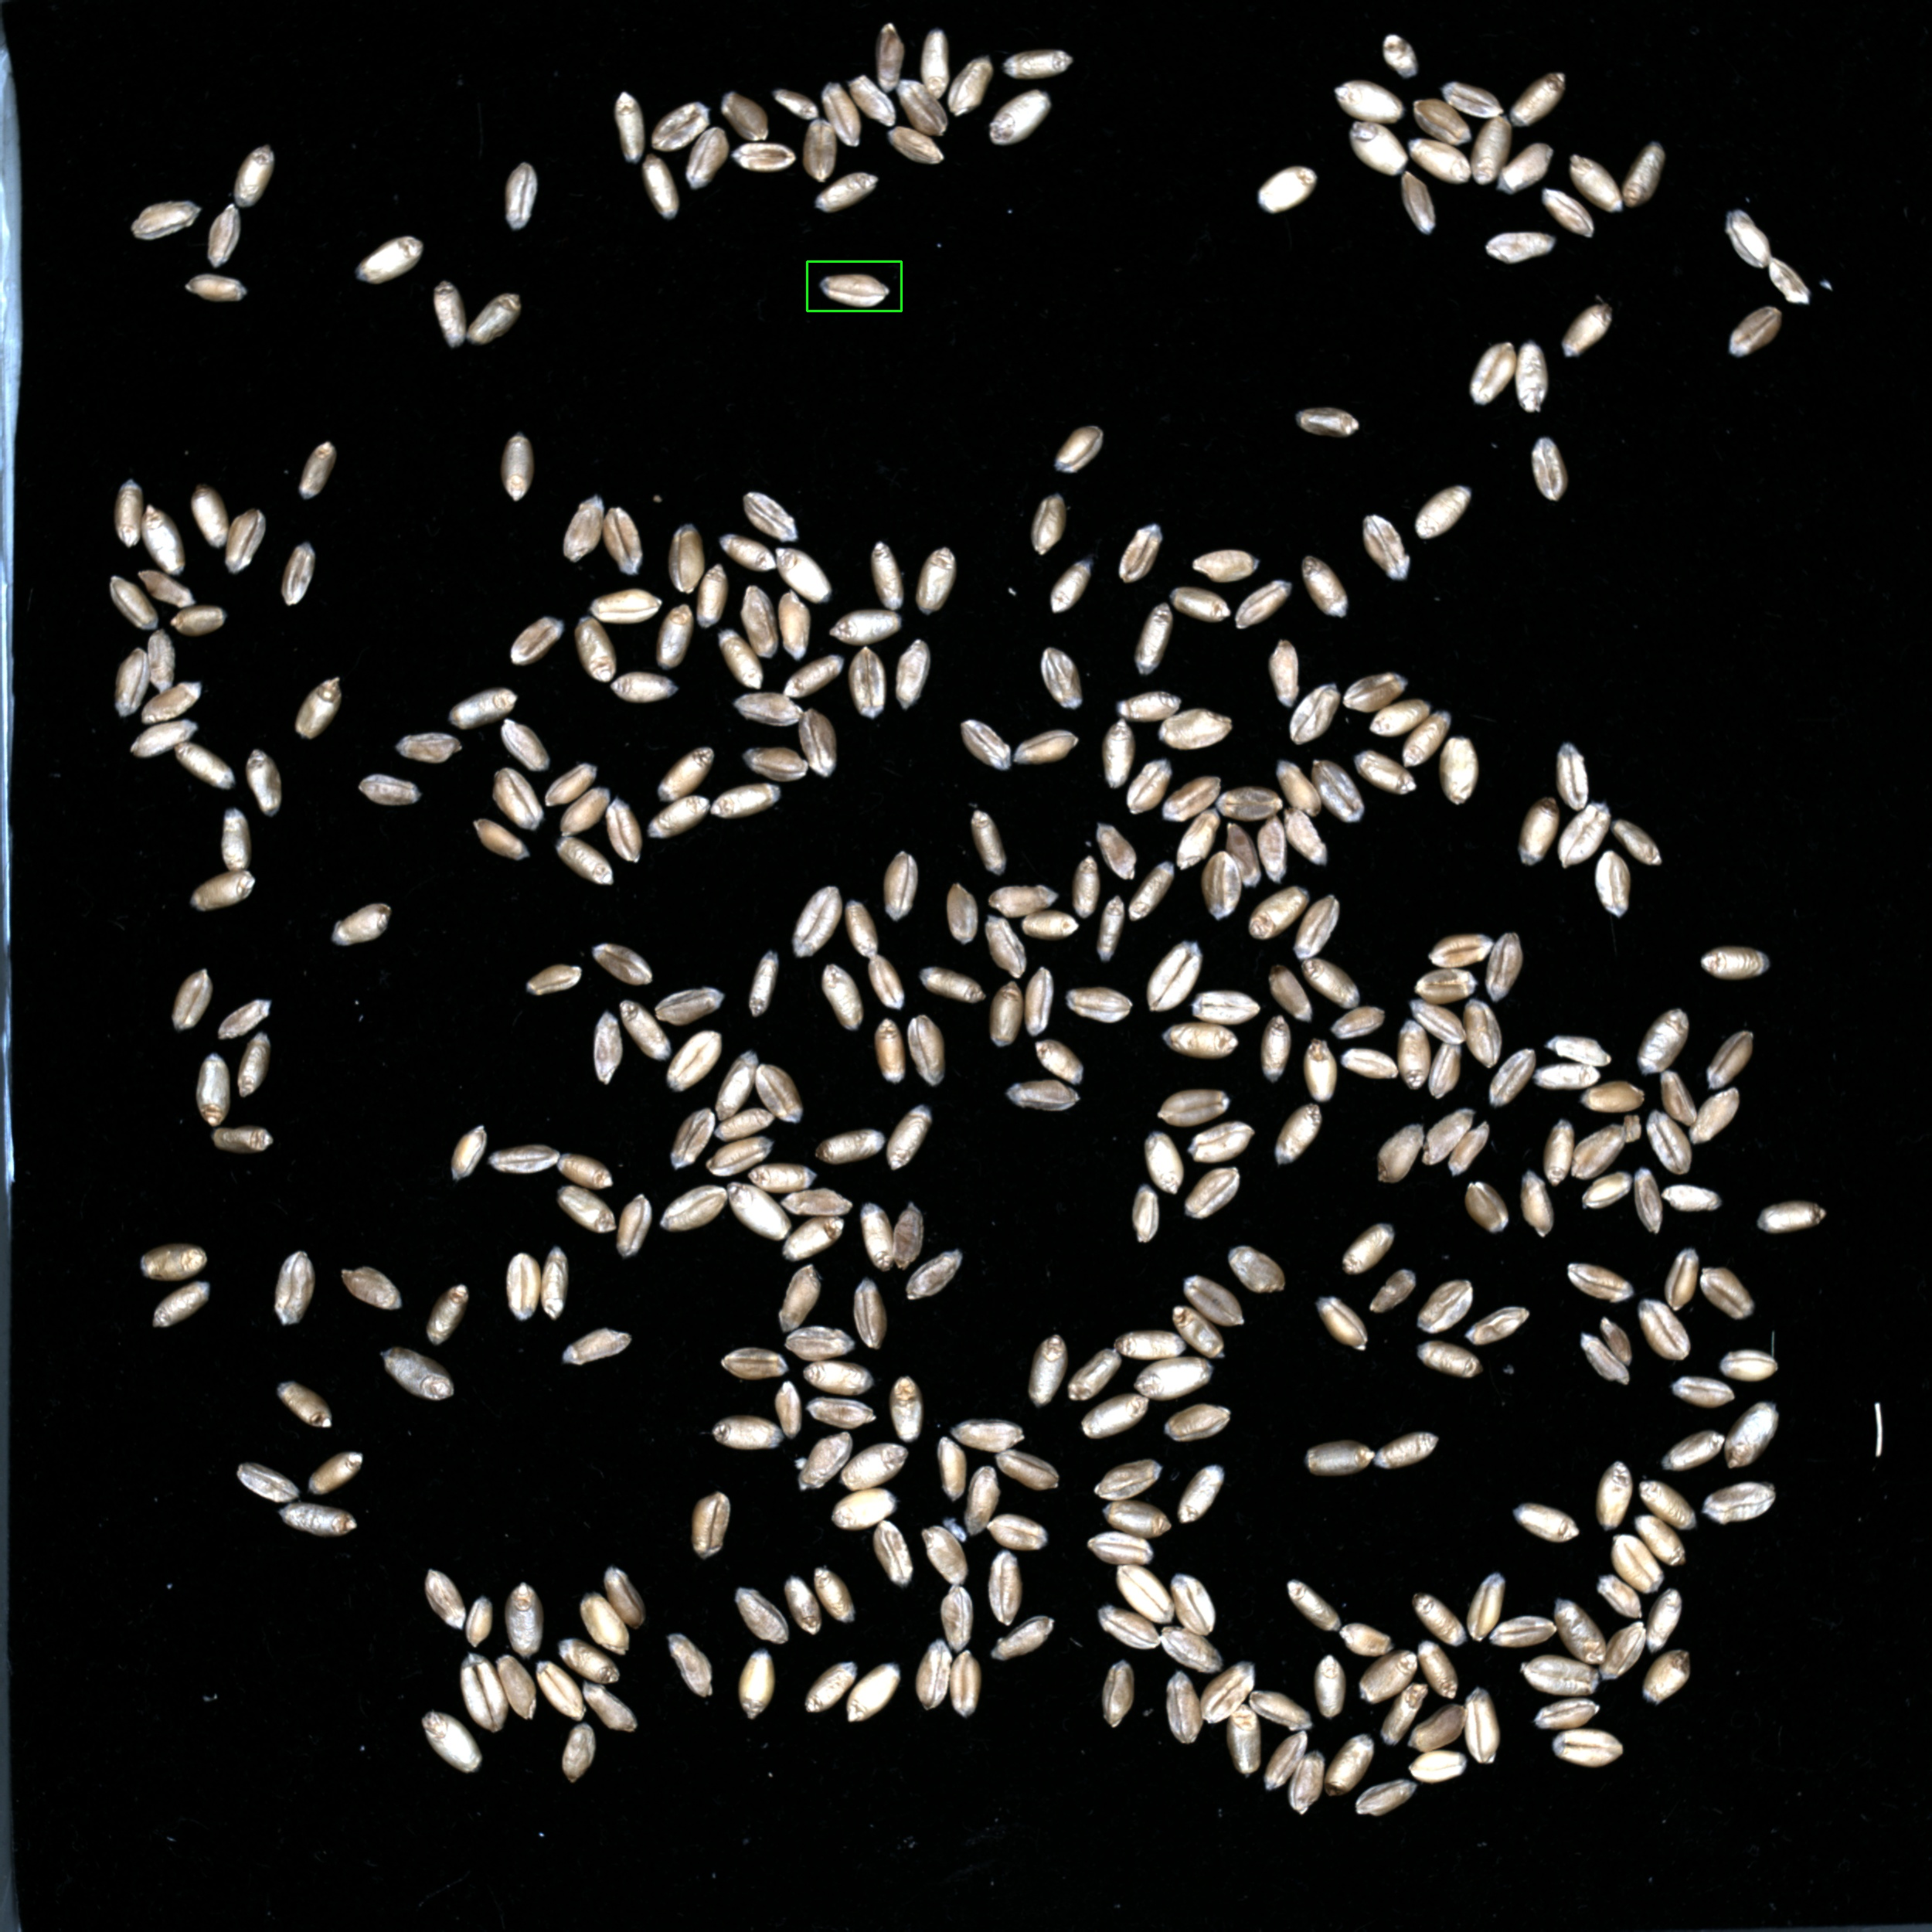
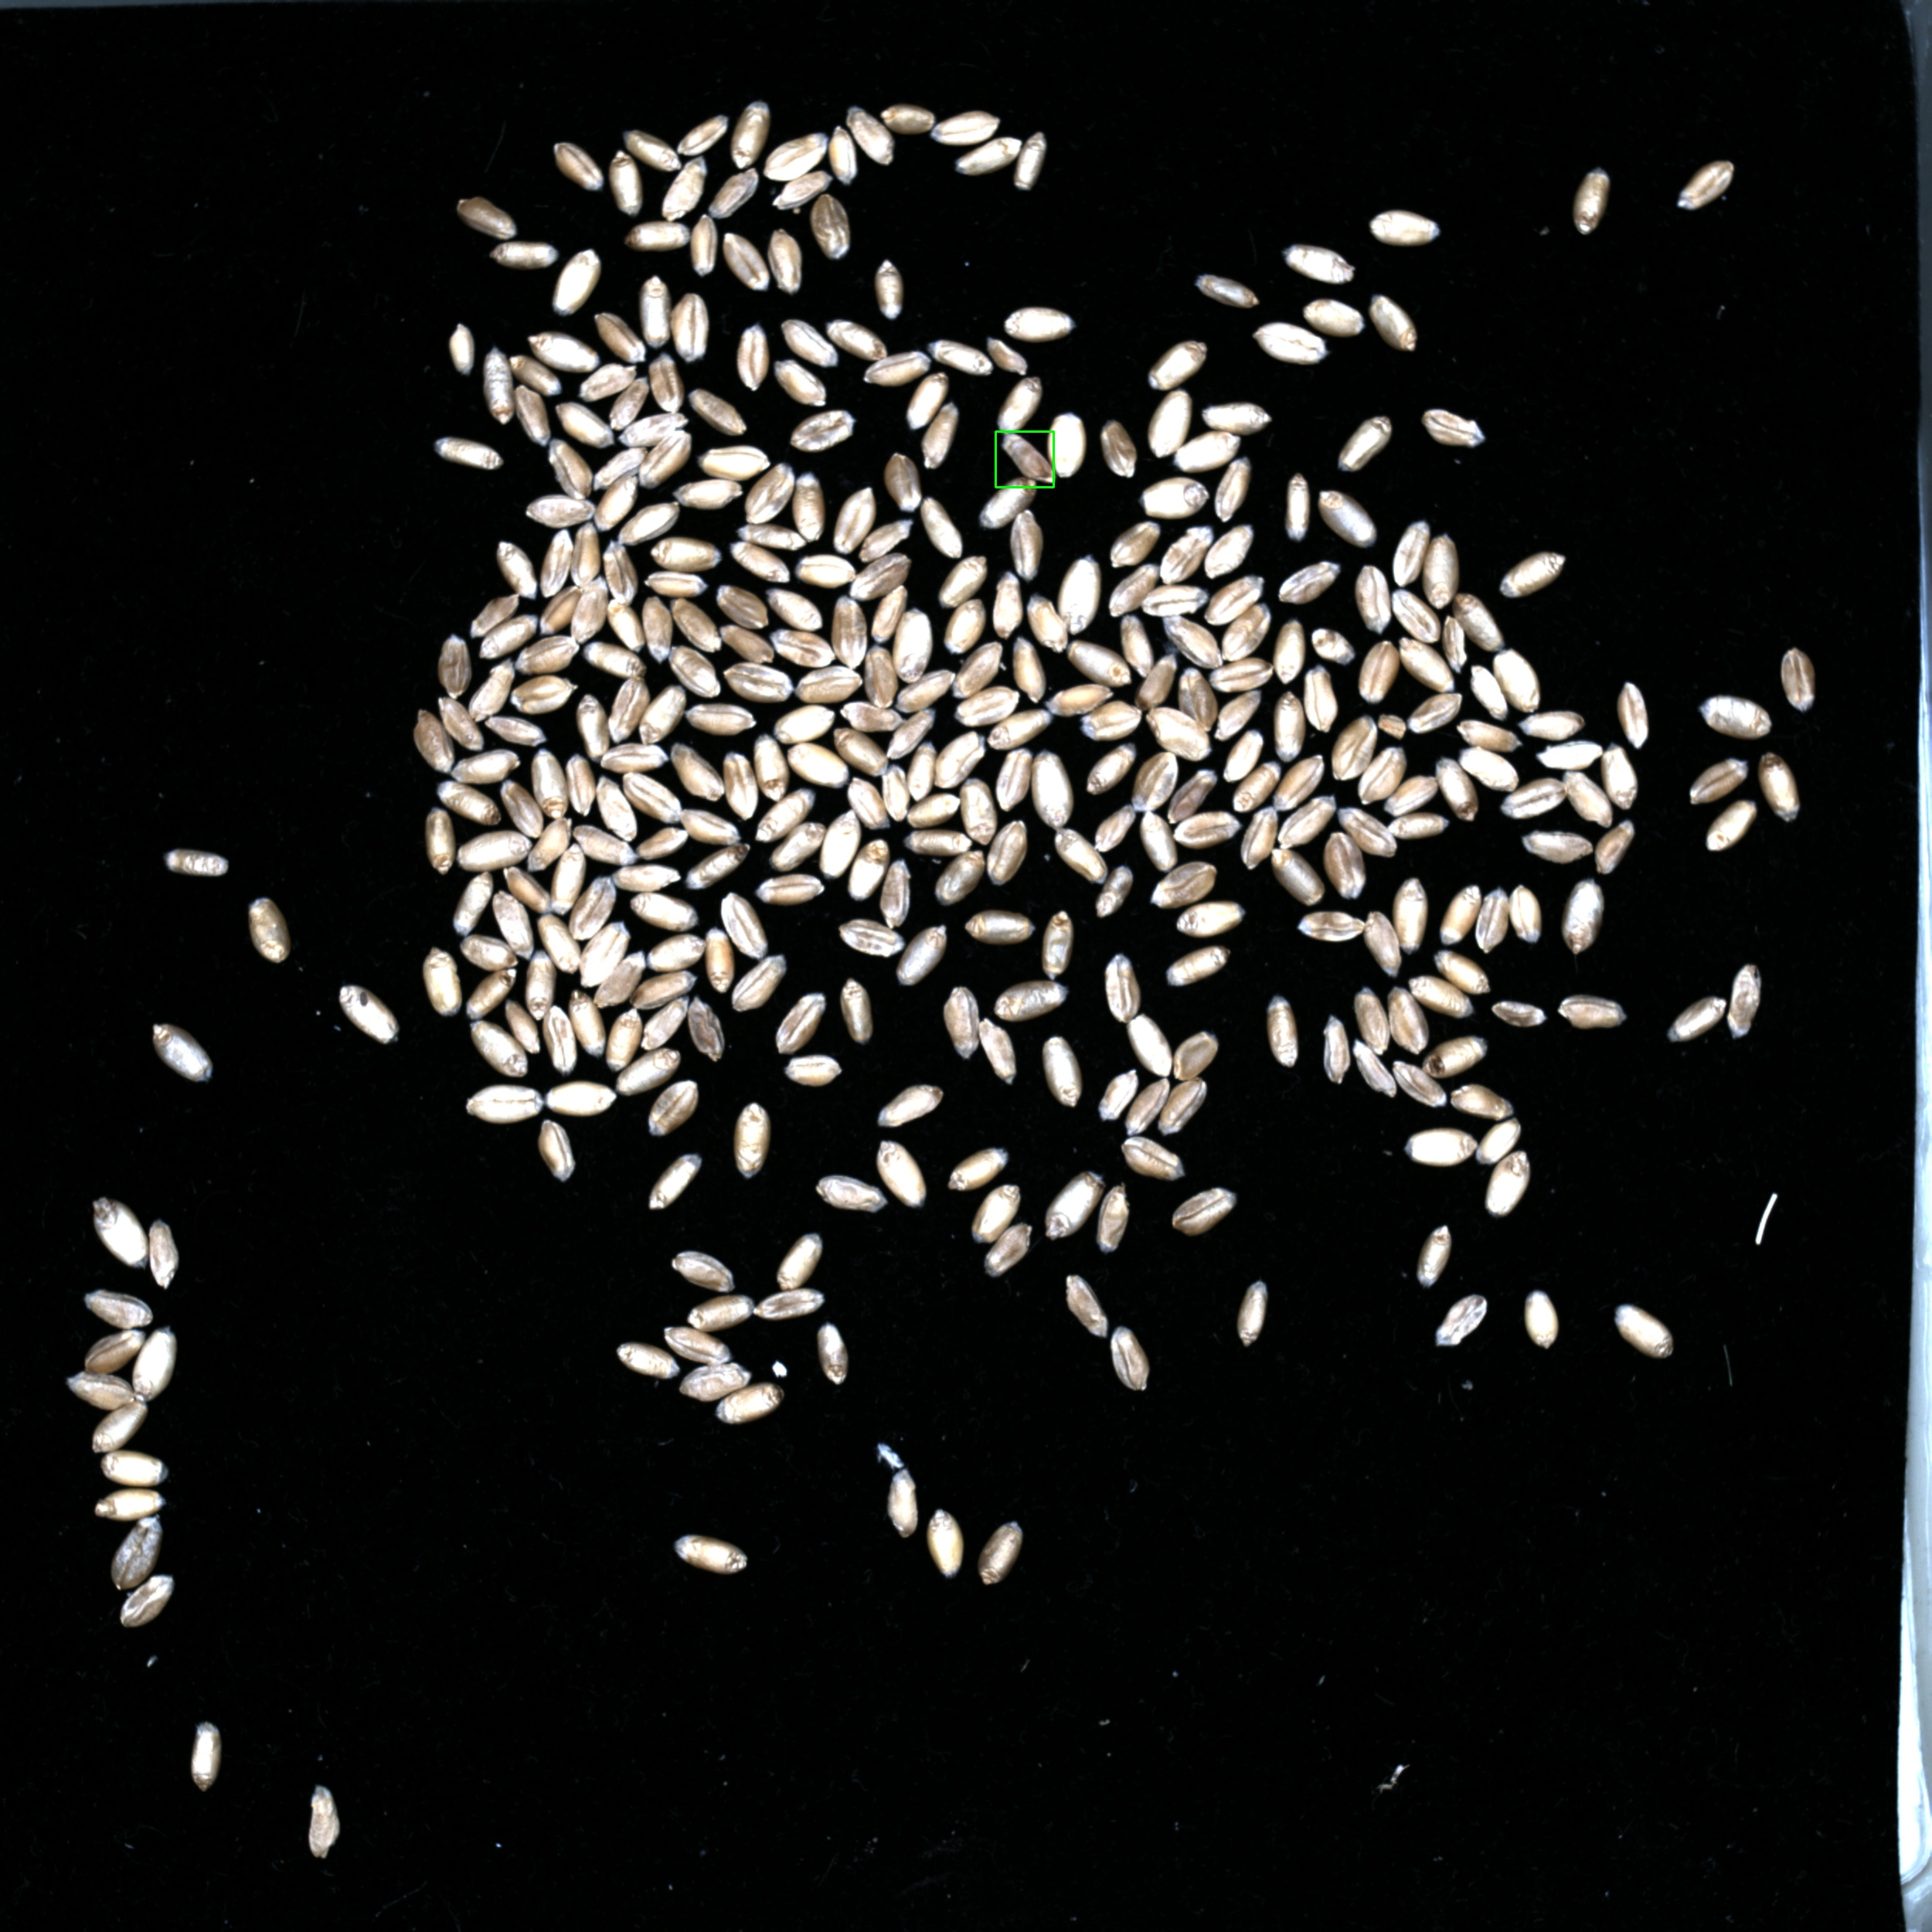
添加了几个模型，最后确定使用sahi+yolov8n

diff --git a/frank/handleModule/soy_seed/init_soy_seed.py b/frank/handleModule/soy_seed/init_soy_seed.py
@@ -22,6 +22,7 @@ from frank.handleModule.my_thread.balance_thread import BalanceThread
 from frank.handleModule.my_thread.camera_thread import CameraThread
 from frank.handleModule.my_thread.img_processing_thread import ImageProcessingThread
 from frank.handleModule.my_thread.model_loader_thread import ModelLoaderThread
+from frank.handleModule.my_thread.sahi_img_processing_thread import SahiImageProcessingThread
 from frank.handleModule.tools import cam_tool
 from frank.hikModule.MvCameraControl_class import *
 from frank.hikModule.MvErrorDefine_const import *
@@ -103,7 +104,7 @@ class InitSoySeed:
         self.ui.tab_2.button_export.clicked.connect(self.export_to_excel)
 
         # 加载模型，预热模型
-        self.load_model(r"model/wheat_best.pt")
+        self.load_model(r"model/n_wheat.pt")
         # # 从json加载信息
         self.load_table_data()
 
@@ -480,29 +481,34 @@ class InitSoySeed:
         # 输入图像，处理图像
         # self.pod_thread = ImageProcessingThread(tmp_img,self.dect_model)
         # 这里用一个线程防止卡死
-        from functools import partial
-        conf_threshold = 0.1
-        predict_func = partial(self.dect_model.predict, conf=conf_threshold)
-        self.pod_thread = ImageProcessingThread(self.last_frame, predict_func)
+
+        # 创建 SAHI 处理线程
+        # self.pod_thread = ImageProcessingThread(self.last_frame, self.dect_model)
+        self.pod_thread = SahiImageProcessingThread(self.last_frame, self.dect_model)
         self.pod_thread.result_ready.connect(self.handle_image_result)
         self.pod_thread.start()
 
     # 处理图像结果
     def handle_image_result(self, results):
 
-        if results is None:
-            return
-        self.processed_img = self.paint_dect_result(results)
+        # if len(results.object_prediction_list) == 0 or self.last_frame is None:
+        #     return
+        # if len(results[0]) == 0 or self.last_frame is None:
+        #     return
+        # self.processed_img = self.paint_dect_result(results)
+        self.processed_img = self.paint_sahi_dect_result(results,self.last_frame.copy())
         self.display_image(self.processed_img)
 
         # 传入的要是一个字典
         result = dict()
-        result["num"] = len(results[0])
+        # result["num"] = len(results[0])
+        result["num"] = len(results.object_prediction_list)
         # 将结果填充到form
         self.fill_inputs(result)
         print("处理图像完成")
 
     # 用来将图像展示到pixmap
+    
     def display_image(self, img):
 
         frame_width = self.ui.tab_1.widget_display.width()
@@ -680,3 +686,26 @@ class InitSoySeed:
                 cv2.circle(img, center, point_radius, point_color, thickness)
 
             return img
+
+    def paint_sahi_dect_result(self, results,img):
+
+        h, w, _ = img.shape
+        point_radius = max(int(min(w, h) * 0.005), 1)
+        point_color = (0, 0, 255)
+        thickness = -1
+        distance_threshold = max(int(min(w, h) * 0.02), 5)
+
+        centers = []
+
+        for box in results.object_prediction_list:
+            # 提取边界框坐标
+            x1, y1, x2, y2 = box.bbox.to_xyxy()
+            # 计算中心点
+            center_x = int((x1 + x2) / 2)
+            center_y = int((y1 + y2) / 2)
+            centers.append((center_x, center_y))
+            # 在图像上绘制点
+            cv2.circle(img, (center_x, center_y), point_radius, point_color, thickness)
+
+        return img
+

diff --git a/frank/handleModule/my_thread/model_loader_thread.py b/frank/handleModule/my_thread/model_loader_thread.py
@@ -1,9 +1,11 @@
-# src/threads/model_loader_thread.py
-
 from PyQt5.QtCore import QThread, pyqtSignal
-from ultralytics import YOLO
+from sahi import AutoDetectionModel
+from sahi.predict import get_sliced_prediction
 import numpy as np
 import os
+import torch
+from ultralytics import YOLO
+
 
 class ModelLoaderThread(QThread):
     model_loaded = pyqtSignal(object)
@@ -18,12 +20,40 @@ class ModelLoaderThread(QThread):
             if not os.path.exists(self.model_path):
                 raise FileNotFoundError(f"模型路径不存在: {self.model_path}")
 
-            model = YOLO(self.model_path)
+            # 加载 SAHI 模型
+            model = AutoDetectionModel.from_pretrained(
+                model_type='yolov8',  # 根据你的模型类型调整
+                model_path=self.model_path,
+                confidence_threshold=0.3,
+                device="cuda:0"
+            )
 
-            # 预热模型：推理一张空图像防止第一次使用卡顿
+            # 预热模型：推理一张空图像
             dummy_image = np.zeros((640, 640, 3), dtype=np.uint8)
-            model(dummy_image)
+            get_sliced_prediction(
+                dummy_image,
+                model,
+                slice_height=640,
+                slice_width=640,
+                overlap_height_ratio=0.3,
+                overlap_width_ratio=0.3
+            )
 
             self.model_loaded.emit(model)
         except Exception as e:
             self.load_failed.emit(f"模型加载失败：{str(e)}")
+
+    # def run(self):
+    #     try:
+    #         if not os.path.exists(self.model_path):
+    #             raise FileNotFoundError(f"模型路径不存在: {self.model_path}")
+    #
+    #         model = YOLO(self.model_path)
+    #
+    #         # 预热模型：推理一张空图像防止第一次使用卡顿
+    #         dummy_image = np.zeros((640, 640, 3), dtype=np.uint8)
+    #         model(dummy_image)
+    #
+    #         self.model_loaded.emit(model)
+    #     except Exception as e:
+    #         self.load_failed.emit(f"模型加载失败：{str(e)}")

diff --git a/frank/handleModule/my_thread/sahi_img_processing_thread.py b/frank/handleModule/my_thread/sahi_img_processing_thread.py
@@ -1,0 +1,27 @@
+from sahi.predict import get_sliced_prediction
+from PyQt5.QtCore import QThread, pyqtSignal
+from PyQt5.QtCore import pyqtSignal
+import time
+
+class SahiImageProcessingThread(QThread):
+    result_ready = pyqtSignal(object)  # 信号，用于传递处理结果
+
+    def __init__(self, image, detection_model):
+        super().__init__()
+        self.image = image  # 输入图像 (numpy 格式)
+        self.detection_model = detection_model  # SAHI 模型
+
+    def run(self):
+        start = time.time()
+        # 使用 SAHI 进行切片预测
+        result = get_sliced_prediction(
+            self.image,  # 直接传入 numpy 图像
+            self.detection_model,
+            slice_height=640,
+            slice_width=640,
+            overlap_height_ratio=0.2,
+            overlap_width_ratio=0.2
+        )
+        # 发射结果信号
+        print(f"Total time: {time.time() - start} seconds")
+        self.result_ready.emit(result)